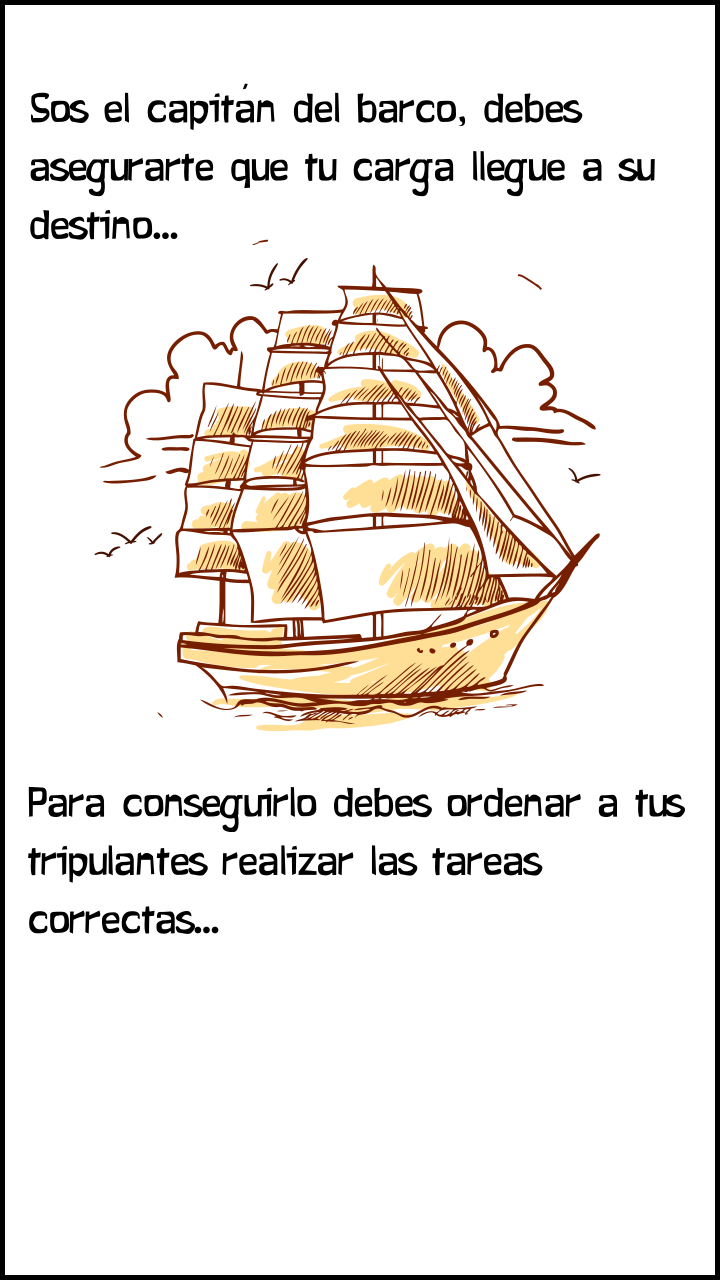
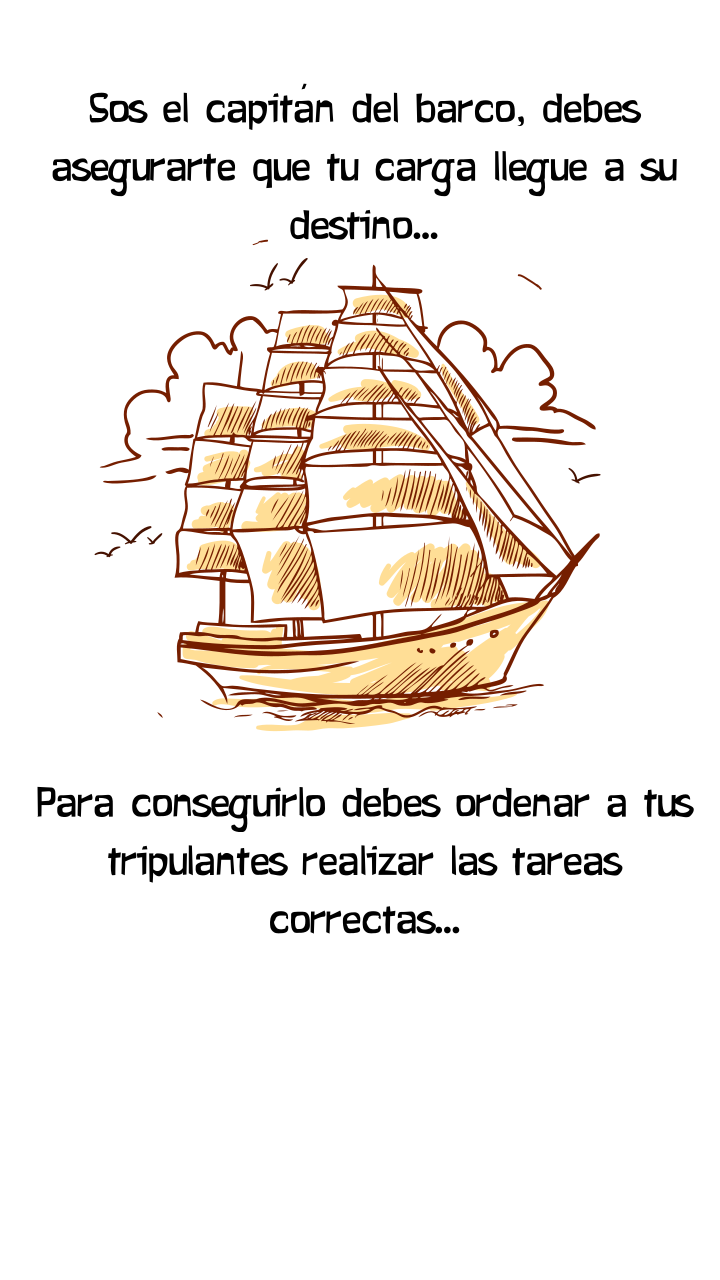
Mejoras en pantallas de viajes!

Changed region(s): [[0.0, 0.0, 1.0, 1.0]]

diff --git a/js/scenes/tripGlobal.js b/js/scenes/tripGlobal.js
@@ -1,0 +1,47 @@
+var __extends = (this && this.__extends) || function (d, b) {
+    for (var p in b) if (b.hasOwnProperty(p)) d[p] = b[p];
+    function __() { this.constructor = d; }
+    d.prototype = b === null ? Object.create(b) : (__.prototype = b.prototype, new __());
+};
+var tripGlobal = (function (_super) {
+    __extends(tripGlobal, _super);
+    function tripGlobal() {
+        _super.apply(this, arguments);
+    }
+    tripGlobal.prototype.create = function () {
+        this.initScene();
+    };
+    tripGlobal.prototype.initScene = function () {
+        //lest add the back
+        this.back = this.add.image(0, 0, 'backTripGlobal');
+        this.back.setOrigin(0);
+        this.cameras.main.fadeIn(1000, 255, 255, 255);
+        this.time.delayedCall(4500, function () {
+            this.cameras.main.fadeOut(1500, 255, 255, 255);
+        }, [], this);
+        this.time.delayedCall(6000, function () {
+            var boat = new cBoat();
+            this.scene.start('sTrip', boat);
+        }, [], this);
+        //lets add the arrows
+        var arrow1 = this.add.sprite(124, 452, 'tripGlobalArrow');
+        this.tweens.add({
+            targets: arrow1,
+            y: arrow1.y - 15,
+            duration: 600,
+            ease: 'Power2',
+            yoyo: true,
+            repeat: 200
+        });
+        var arrow2 = this.add.sprite(204, 426, 'tripGlobalArrow');
+        this.tweens.add({
+            targets: arrow2,
+            y: arrow2.y - 20,
+            duration: 600,
+            ease: 'Power2',
+            yoyo: true,
+            repeat: 200
+        });
+    };
+    return tripGlobal;
+}(Phaser.Scene));

diff --git a/js/scenes/startMenu.js b/js/scenes/startMenu.js
@@ -12,7 +12,7 @@ var startMenu = (function (_super) {
         this.back = this.add.sprite(0, 0, 'startBack');
         this.back.setOrigin(0);
         //lets create the start button
-        this.startButton = this.add.sprite(720 / 2, 1100, 'startButton').setInteractive();
+        this.startButton = this.add.sprite(720 / 2, 1150, 'startButton').setInteractive();
         this.startButton.on('pointerdown', function (pointer) {
             this.startButton.setTint(0x15536b);
         }, this);
@@ -20,10 +20,10 @@ var startMenu = (function (_super) {
             this.startButton.clearTint();
         }, this);
         this.startButton.on('pointerup', function (pointer) {
-            this.changeScene('sTrip');
+            this.changeScene('tripGlobal');
         }, this);
         //lets create the helpButton button
-        this.helpButton = this.add.sprite(720 / 2, 1000, 'howToPlayButton').setInteractive();
+        this.helpButton = this.add.sprite(720 / 2, 1040, 'howToPlayButton').setInteractive();
         this.helpButton.on('pointerdown', function (pointer) {
             this.helpButton.setTint(0x15536b);
         }, this);
@@ -59,8 +59,7 @@ var startMenu = (function (_super) {
     startMenu.prototype.changeScene = function (sceneName) {
         this.cameras.main.fade(500, 255, 255, 255);
         this.time.delayedCall(500, function () {
-            var boat = new cBoat();
-            this.scene.start(sceneName, boat);
+            this.scene.start(sceneName);
         }, [], this);
     };
     startMenu.prototype.update = function () {

diff --git a/js/scenes/tripGlobal.ts b/js/scenes/tripGlobal.ts
@@ -1,0 +1,68 @@
+class tripGlobal extends Phaser.Scene {
+
+
+    private back:Phaser.GameObjects.Image;
+
+ 
+    create() {
+
+        this.initScene();
+
+    }
+
+    private initScene() {
+
+        //lest add the back
+
+        this.back = this.add.image(0, 0, 'backTripGlobal');
+        this.back.setOrigin(0);
+
+        this.cameras.main.fadeIn(1000, 255, 255, 255);
+
+        this.time.delayedCall(4500, function() {
+
+            this.cameras.main.fadeOut(1500, 255, 255, 255);
+
+        }, [], this);
+
+        this.time.delayedCall(6000, function() {
+
+            var boat:cBoat = new cBoat();
+
+            this.scene.start('sTrip', boat);
+
+        }, [], this);
+
+        //lets add the arrows
+
+        var arrow1 = this.add.sprite(124, 452, 'tripGlobalArrow');
+
+        this.tweens.add({
+            targets: arrow1,
+            y: arrow1.y - 15,
+            duration: 600,
+            ease: 'Power2',
+            yoyo: true,
+            repeat: 200
+        });
+
+        var arrow2 = this.add.sprite(204, 426, 'tripGlobalArrow');
+
+        this.tweens.add({
+            targets: arrow2,
+            y: arrow2.y - 20,
+            duration: 600,
+            ease: 'Power2',
+            yoyo: true,
+            repeat: 200
+        });
+
+
+
+
+    }
+
+
+
+
+}

diff --git a/js/scenes/startMenu.ts b/js/scenes/startMenu.ts
@@ -12,7 +12,7 @@ class startMenu extends Phaser.Scene {
         this.back.setOrigin(0);
 
         //lets create the start button
-        this.startButton =  this.add.sprite(720/2,1100,'startButton').setInteractive();
+        this.startButton =  this.add.sprite(720/2,1150,'startButton').setInteractive();
                 
         this.startButton.on('pointerdown', function (pointer) {
 
@@ -28,12 +28,12 @@ class startMenu extends Phaser.Scene {
 
         this.startButton.on('pointerup', function (pointer) {
 
-            this.changeScene('sTrip');
+            this.changeScene('tripGlobal');
 
         }, this);
 
         //lets create the helpButton button
-        this.helpButton =  this.add.sprite(720/2,1000,'howToPlayButton').setInteractive();
+        this.helpButton =  this.add.sprite(720/2,1040,'howToPlayButton').setInteractive();
         
         this.helpButton.on('pointerdown', function (pointer) {
 
@@ -92,9 +92,7 @@ class startMenu extends Phaser.Scene {
 
         this.time.delayedCall(500, function() {
 
-            var boat:cBoat = new cBoat();
-
-            this.scene.start(sceneName, boat);
+            this.scene.start(sceneName);
 
         }, [], this);
         

diff --git a/js/scenes/sTrip.js b/js/scenes/sTrip.js
@@ -18,6 +18,12 @@ var sTrip = (function (_super) {
         this.trip = new cTrip(this.boat, this); //i send the scene to be able to generate events
         //init the comon controls
         this.crewControl = new crewControls(this.trip, this);
+        //remove all the posible old events
+        this.events.removeAllListeners('tripEnd');
+        this.events.removeAllListeners('eventStart');
+        this.events.removeAllListeners('updateTrip');
+        this.events.removeAllListeners('updateCrew');
+        //init all the event to conect with the controler of the trip
         this.events.on('tripEnd', this.tripEnd, this);
         this.events.on('eventStart', this.startEvent, this);
         this.events.on('updateTrip', this.updateTripText, this);

diff --git a/js/scenes/sTrip.ts b/js/scenes/sTrip.ts
@@ -30,7 +30,14 @@ class sTrip extends Phaser.Scene {
 
         //init the comon controls
         this.crewControl = new crewControls(this.trip, this);
+
+        //remove all the posible old events
+        this.events.removeAllListeners('tripEnd');
+        this.events.removeAllListeners('eventStart');
+        this.events.removeAllListeners('updateTrip');
+        this.events.removeAllListeners('updateCrew');
         
+        //init all the event to conect with the controler of the trip
         this.events.on('tripEnd', this.tripEnd, this);
         this.events.on('eventStart', this.startEvent, this);
         this.events.on('updateTrip', this.updateTripText, this);

diff --git a/js/view/cStatusBar.js b/js/view/cStatusBar.js
@@ -66,15 +66,15 @@ var cStatusBar = (function () {
         console.log(this.value);
         console.log(newValue);
         if (newValue > this.value) {
-            this.barLeft.setAngle(-90);
+            //this.barLeft.setAngle(-90);
             this.barRight.setAngle(-90);
         }
         else if (newValue < this.value) {
-            this.barLeft.setAngle(90);
+            //this.barLeft.setAngle(90);
             this.barRight.setAngle(90);
         }
         else {
-            this.barLeft.setAngle(0);
+            //this.barLeft.setAngle(0);
             this.barRight.setAngle(180);
         }
         this.value = newValue;

diff --git a/js/view/cStatusBar.ts b/js/view/cStatusBar.ts
@@ -86,13 +86,13 @@ class cStatusBar {
         console.log(this.value);
         console.log(newValue)
         if(newValue > this.value) {
-            this.barLeft.setAngle(-90);
+            //this.barLeft.setAngle(-90);
             this.barRight.setAngle(-90);
         } else if (newValue < this.value) {
-            this.barLeft.setAngle(90);
+            //this.barLeft.setAngle(90);
             this.barRight.setAngle(90);
         } else {
-            this.barLeft.setAngle(0);
+            //this.barLeft.setAngle(0);
             this.barRight.setAngle(180);
         }
 

diff --git a/js/scenes/preloader.js b/js/scenes/preloader.js
@@ -83,6 +83,8 @@ var preloader = (function (_super) {
         this.load.image('tripPauseBack', 'assets/tripPauseBack.png');
         this.load.image('tripPlayButton', 'assets/tripPlayButton.png');
         this.load.image('tripPauseButton', 'assets/tripPauseButton.png');
+        this.load.image('backTripGlobal', 'assets/backTripGlobal.png');
+        this.load.image('tripGlobalArrow', 'assets/tripGlobalArrow.png');
         //help sprites
         this.load.image('help1', 'assets/help1.png');
         this.load.image('help2', 'assets/help2.png');

diff --git a/js/scenes/preloader.ts b/js/scenes/preloader.ts
@@ -88,6 +88,8 @@ class preloader extends Phaser.Scene {
         this.load.image('tripPauseBack', 'assets/tripPauseBack.png');
         this.load.image('tripPlayButton', 'assets/tripPlayButton.png');
         this.load.image('tripPauseButton', 'assets/tripPauseButton.png');    
+        this.load.image('backTripGlobal', 'assets/backTripGlobal.png');    
+        this.load.image('tripGlobalArrow', 'assets/tripGlobalArrow.png');    
 
         //help sprites
         this.load.image('help1', 'assets/help1.png');  

diff --git a/js/game.js b/js/game.js
@@ -19,6 +19,7 @@ var InitGame = (function () {
         this.game.scene.add('city', city, false);
         this.game.scene.add('tripPause', tripPause, false);
         this.game.scene.add('tripHelp', tripHelp, false);
+        this.game.scene.add('tripGlobal', tripGlobal, false);
         this.game.scene.start('boot');
     }
     return InitGame;

diff --git a/index.html b/index.html
@@ -22,6 +22,7 @@
         <script src="js/scenes/tripPause.js"></script>
         <script src="js/scenes/city.js"></script>
         <script src="js/scenes/tripHelp.js"></script>
+        <script src="js/scenes/tripGlobal.js"></script>
 
         <script src="js/controler/cBoat.js"></script>
         <script src="js/controler/cTrip.js"></script>
